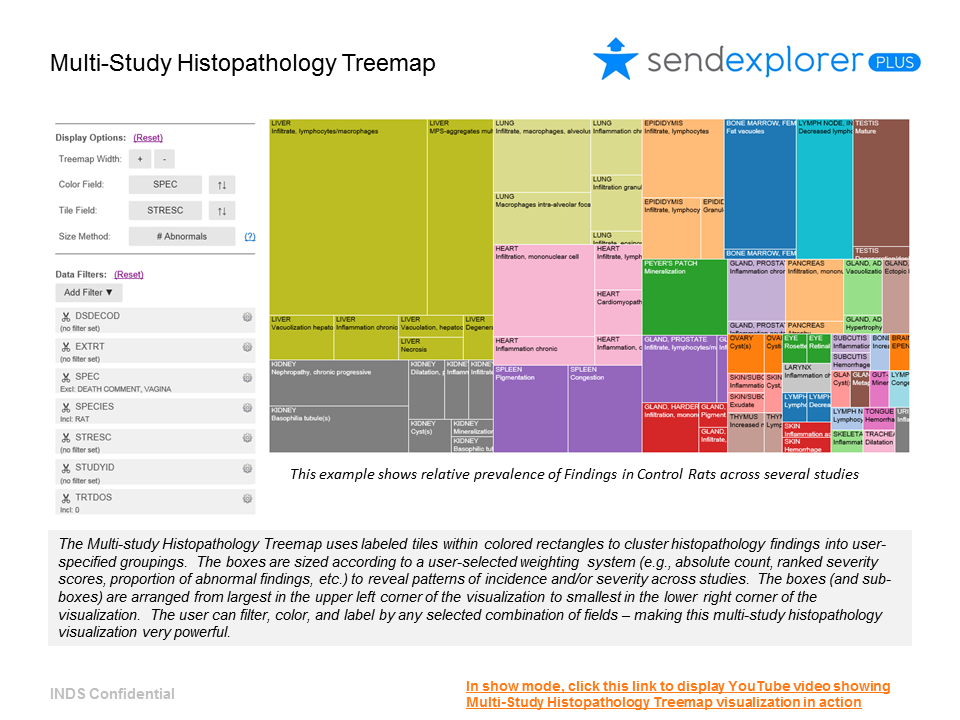
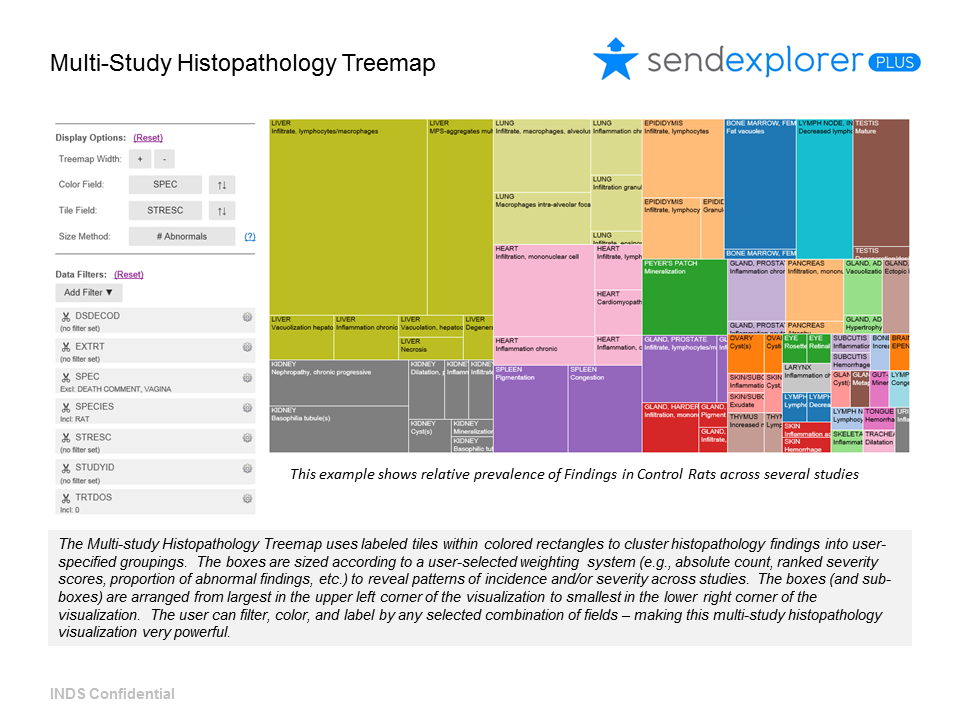
add video link

Changed region(s): [[0.4688, 0.9472, 0.9375, 1.0]]

diff --git a/index1.md b/index1.md
@@ -46,7 +46,7 @@ layout: default
   </div>
 </div>
 
-------------------------------------------------------------------------
+<p>&nbsp;</p>
 
 <div style="text-align:center">
   <img src="/assets/images/se-plus-small.jpg" style="margin-bottom: -1em" alt="Send Explorer Plus Logo">
@@ -75,7 +75,7 @@ layout: default
   <div class="pure-u-1-2">
     <a href="/assets/se-images/Slide7.PNG" 
        data-lightbox="slide-7"
-       data-title="<a href=https://www.youtube.com/watch?v=UIXnvctzGw8>video</a>"> 
+       data-title="<a href=https://www.youtube.com/watch?v=UIXnvctzGw8>YouTube video show Muti-Study Histopathology Treemap in action</a>"> 
       <img class="thumbsize" src="/assets/se-images/Slide7.PNG" alt="" />
     </a>
     <p class="thumbtitle">Histopathology Treemap</p>
@@ -91,7 +91,7 @@ layout: default
   </div>
 </div>
 
-------------------------------------------------------------------------
+<p>&nbsp;</p>
 
 ### The INDS Advantage
 
